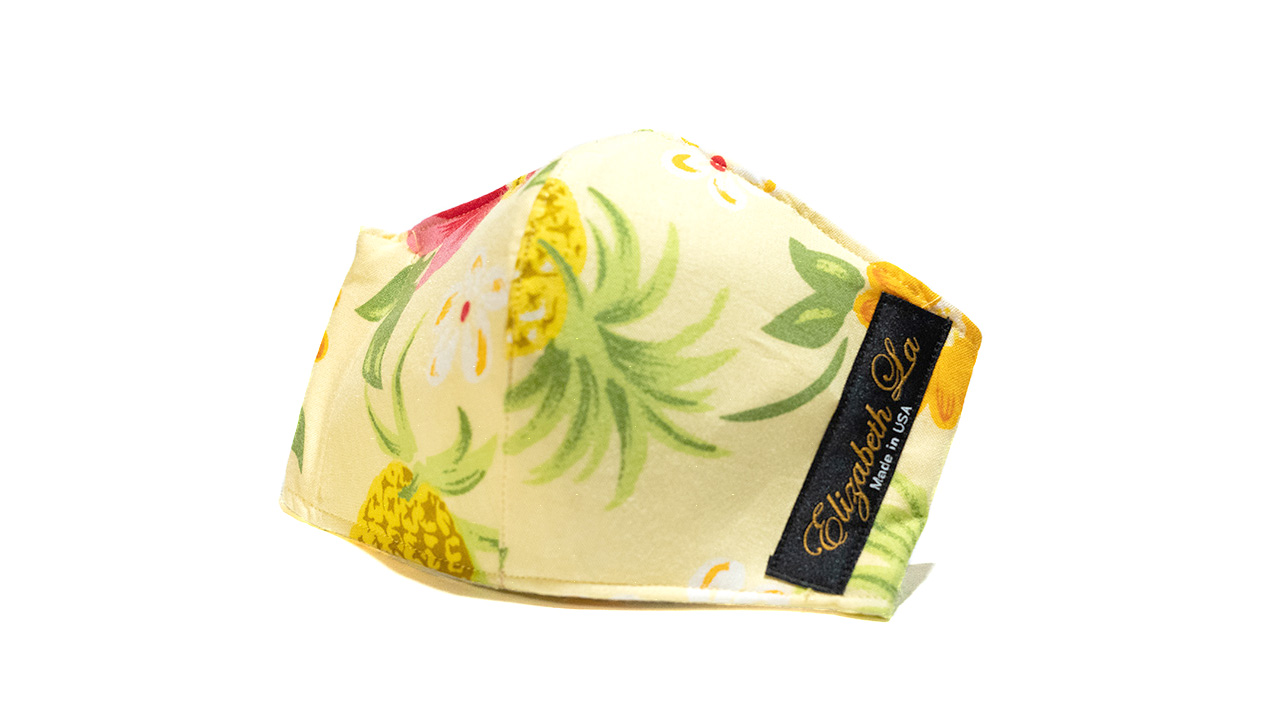
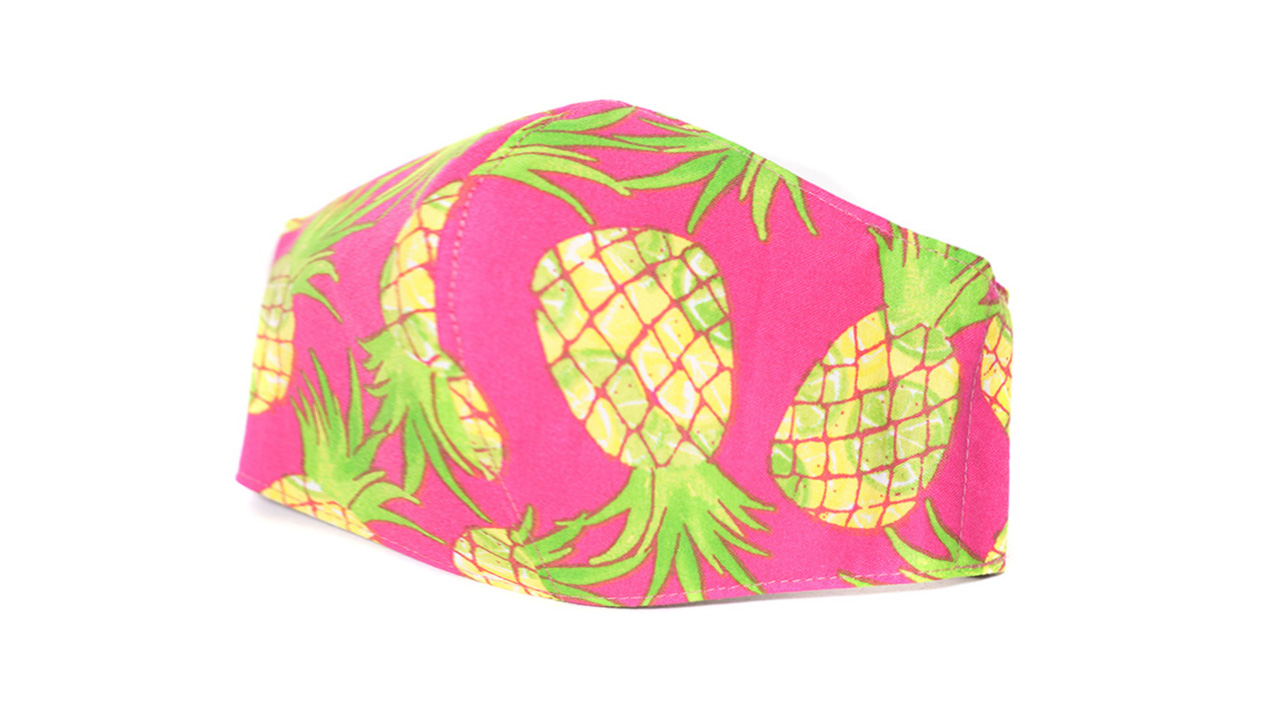
New Design

diff --git a/src/components/masks/MaskDesigns.js b/src/components/masks/MaskDesigns.js
@@ -3006,7 +3006,7 @@ export const selection = {
     },
     airforce: {
         type: 'Mask',
-        color: 'Services',
+        color: 'United',
         img: 'AirForce.jpg',
         param: 'airforce',
         price: maskPrice,
@@ -3046,7 +3046,7 @@ export const selection = {
     },
     excellence: {
         type: 'Mask',
-        color: 'Air Force',
+        color: 'Excellence',
         img: 'Excellence.jpg',
         param: 'excellence',
         price: maskPrice,
@@ -3235,6 +3235,106 @@ export const selection = {
         price: maskPrice,
         category: 'holiday',
         angled: true,
+        tags: [''],
+    },
+    swan: {
+        type: 'Mask',
+        color: 'Swan',
+        img: 'Swan.jpg',
+        param: 'swan',
+        price: maskPrice,
+        category: 'animal',
+        angled: true,
+        tags: [''],
+    },
+    snowy: {
+        type: 'Mask',
+        color: 'Snowy',
+        img: 'Snowy.jpg',
+        param: 'snowy',
+        price: maskPrice,
+        category: 'holiday',
+        angled: true,
+        tags: [''],
+    },
+    fortune: {
+        type: 'Mask',
+        color: 'Fortune',
+        img: 'Fortune.jpg',
+        param: 'fortune',
+        price: maskPrice,
+        category: 'holiday',
+        angled: true,
+        tags: [''],
+    },
+    angelic: {
+        type: 'Mask',
+        color: 'Angelic',
+        img: 'Angelic.jpg',
+        param: 'angelic',
+        price: maskPrice,
+        category: 'holiday',
+        angled: true,
+        tags: [''],
+    },
+    jovial: {
+        type: 'Mask',
+        color: 'Jovial',
+        img: 'Jovial.jpg',
+        param: 'jovial',
+        price: maskPrice,
+        category: 'pattern',
+        angled: true,
+        tags: [''],
+    },
+    pineapple: {
+        type: 'Mask',
+        color: 'Pineapple',
+        img: 'Pineapple.jpg',
+        param: 'pineapple',
+        price: maskPrice,
+        category: 'pattern',
+        angled: false,
+        tags: [''],
+    },
+    redpolkadot: {
+        type: 'Mask',
+        color: 'Red Polkadot',
+        img: 'RedPolkadot.jpg',
+        param: 'redpolkadot',
+        price: maskPrice,
+        category: 'pattern',
+        angled: false,
+        tags: [''],
+    },
+    greypolkadot: {
+        type: 'Mask',
+        color: 'Grey Polkadot',
+        img: 'GreyPolkadot.jpg',
+        param: 'greypolkadot',
+        price: maskPrice,
+        category: 'pattern',
+        angled: false,
+        tags: [''],
+    },
+    gifts: {
+        type: 'Mask',
+        color: 'Gifts',
+        img: 'Gifts.jpg',
+        param: 'gifts',
+        price: maskPrice,
+        category: 'holiday',
+        angled: false,
+        tags: [''],
+    },
+    flamingodance: {
+        type: 'Mask',
+        color: 'Flamingo Dance',
+        img: 'FlamingoDance.jpg',
+        param: 'flamingodance',
+        price: maskPrice,
+        category: 'animal',
+        angled: false,
         tags: [''],
     },
     ////////////
